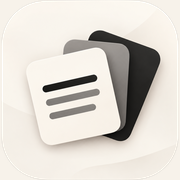
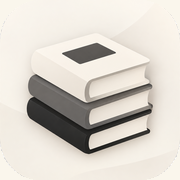
L'icône de Folio : la pile de livres
Le visuel déposé sur main servait d'icône, mais son damier de
transparence était peint dans les pixels — pas un canal alpha, de vrais
carrés gris clair. Il ressortait donc tel quel dans les coins de l'icône.
Les bords de la pastille sont détectés sur la couleur (le crème et les
livres d'un côté, le damier neutre de l'autre), l'image est recadrée
dessus, puis reposée sur le crème du thème à travers un masque arrondi.

Les quatre tailles sont régénérées. Celle pour Android garde 14 % de
marge : son masque rond mord les bords. Aucune ne conserve de
transparence — iOS peint en noir les coins transparents d'une icône.

Claude-Session: https://claude.ai/code/session_013BdkD7FUGtw6rrdtp75RRz

diff --git a/sw.js b/sw.js
@@ -1,4 +1,4 @@
-const C = 'folio-v38';
+const C = 'folio-v39';
 const SHELL = ['.', 'index.html', 'app.css', 'app.js', 'manifest.webmanifest',
   'icons/icon-192.png', 'icons/icon-512.png', 'icons/icon-180.png', 'icons/icon-maskable.png'];
 self.addEventListener('install', e => {
